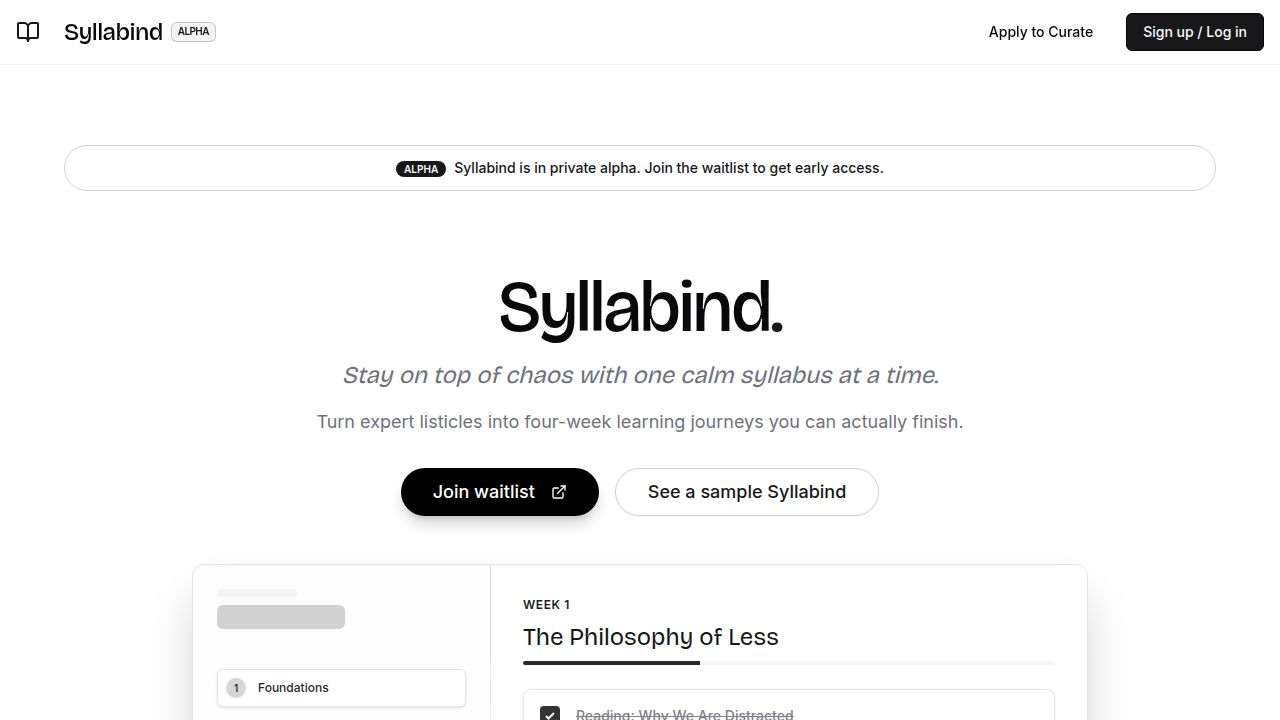
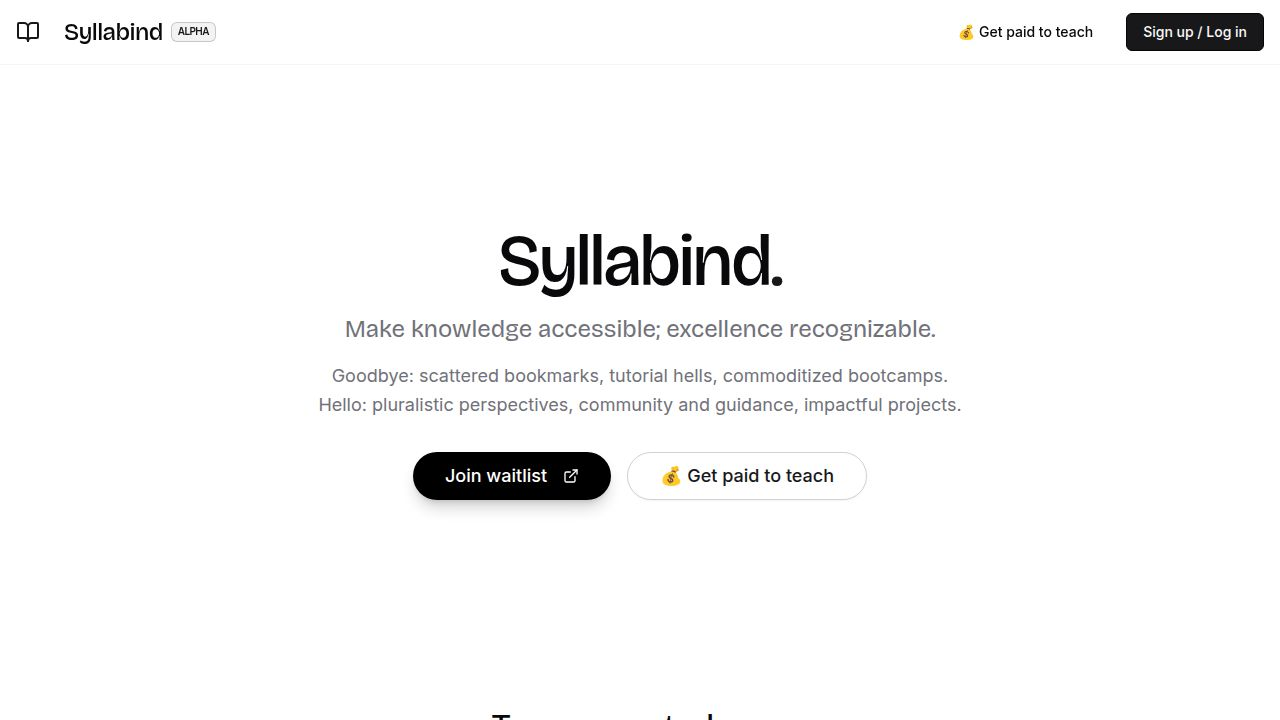
Add a dedicated health check endpoint and improve redirects
Introduce a `/__healthz` endpoint for robust health checks and refine HTTPS redirect logic to accommodate internal requests.

Replit-Commit-Author: Agent
Replit-Commit-Session-Id: bae7a2ca-1022-45a9-b2c4-4e8211290616
Replit-Commit-Checkpoint-Type: full_checkpoint
Replit-Commit-Event-Id: cce1f0e3-8d38-4049-8b34-a607cace7dd8
Replit-Commit-Screenshot-Url: https://storage.googleapis.com/screenshot-production-us-central1/9ce1fb3c-f89c-4b55-bd8c-1cc321dd2fcd/bae7a2ca-1022-45a9-b2c4-4e8211290616/Qnn6yW2
Replit-Helium-Checkpoint-Created: true

diff --git a/client/src/pages/AdminSettings.tsx b/client/src/pages/AdminSettings.tsx
@@ -17,12 +17,14 @@ export default function AdminSettings() {
   const [bugReportUrl, setBugReportUrl] = useState('');
   const [termsUrl, setTermsUrl] = useState('');
   const [privacyUrl, setPrivacyUrl] = useState('');
+  const [getPaidToTeachUrl, setGetPaidToTeachUrl] = useState('');
   const [loading, setLoading] = useState(true);
   const [saving, setSaving] = useState(false);
   const [waitlistSaving, setWaitlistSaving] = useState(false);
   const [bugReportSaving, setBugReportSaving] = useState(false);
   const [termsSaving, setTermsSaving] = useState(false);
   const [privacySaving, setPrivacySaving] = useState(false);
+  const [getPaidToTeachSaving, setGetPaidToTeachSaving] = useState(false);
 
   // Redirect non-admin users
   useEffect(() => {
@@ -39,13 +41,15 @@ export default function AdminSettings() {
       fetch('/api/site-settings/bug_report_url').then(r => r.json()),
       fetch('/api/site-settings/terms_of_service_url').then(r => r.json()),
       fetch('/api/site-settings/privacy_policy_url').then(r => r.json()),
+      fetch('/api/site-settings/get_paid_to_teach_url').then(r => r.json()),
     ])
-      .then(([slackData, waitlistData, bugReportData, termsData, privacyData]) => {
+      .then(([slackData, waitlistData, bugReportData, termsData, privacyData, getPaidToTeachData]) => {
         setSlackUrl(slackData.value || '');
         setWaitlistUrl(waitlistData.value || '');
         setBugReportUrl(bugReportData.value || '');
         setTermsUrl(termsData.value || '');
         setPrivacyUrl(privacyData.value || '');
+        setGetPaidToTeachUrl(getPaidToTeachData.value || '');
         setLoading(false);
       })
       .catch(() => setLoading(false));
@@ -141,6 +145,24 @@ export default function AdminSettings() {
     }
   };
 
+  const handleGetPaidToTeachSave = async () => {
+    setGetPaidToTeachSaving(true);
+    try {
+      const res = await fetch('/api/admin/settings', {
+        method: 'PUT',
+        headers: { 'Content-Type': 'application/json' },
+        credentials: 'include',
+        body: JSON.stringify({ key: 'get_paid_to_teach_url', value: getPaidToTeachUrl }),
+      });
+      if (!res.ok) throw new Error('Failed to save');
+      toast({ title: 'Settings saved', description: 'Get Paid to Teach URL has been updated.' });
+    } catch {
+      toast({ title: 'Error', description: 'Failed to save settings.', variant: 'destructive' });
+    } finally {
+      setGetPaidToTeachSaving(false);
+    }
+  };
+
   if (!user?.isAdmin) return null;
 
   return (
@@ -209,6 +231,36 @@ export default function AdminSettings() {
               />
               <Button onClick={handleWaitlistSave} disabled={waitlistSaving}>
                 {waitlistSaving && <Loader2 className="mr-2 h-4 w-4 animate-spin" />}
+                Save
+              </Button>
+            </>
+          )}
+        </CardContent>
+      </Card>
+
+      <Card>
+        <CardHeader>
+          <CardTitle>Get Paid to Teach URL</CardTitle>
+          <CardDescription>
+            URL for the "Get paid to teach" button on the Marketing page hero section.
+            Leave empty to scroll to the Apply to Curate section instead.
+          </CardDescription>
+        </CardHeader>
+        <CardContent className="space-y-4">
+          {loading ? (
+            <div className="flex items-center gap-2 text-muted-foreground">
+              <Loader2 className="h-4 w-4 animate-spin" />
+              Loading...
+            </div>
+          ) : (
+            <>
+              <Input
+                placeholder="https://example.com/teach"
+                value={getPaidToTeachUrl}
+                onChange={(e) => setGetPaidToTeachUrl(e.target.value)}
+              />
+              <Button onClick={handleGetPaidToTeachSave} disabled={getPaidToTeachSaving}>
+                {getPaidToTeachSaving && <Loader2 className="mr-2 h-4 w-4 animate-spin" />}
                 Save
               </Button>
             </>

diff --git a/client/src/components/Layout.tsx b/client/src/components/Layout.tsx
@@ -28,6 +28,7 @@ export function Layout({ children }: { children: React.ReactNode }) {
   const [bugReportUrl, setBugReportUrl] = useState<string | null>(null);
   const [termsUrl, setTermsUrl] = useState<string | null>(null);
   const [privacyUrl, setPrivacyUrl] = useState<string | null>(null);
+  const [getPaidToTeachUrl, setGetPaidToTeachUrl] = useState<string | null>(null);
 
   useEffect(() => {
     if (isAuthenticated) {
@@ -42,10 +43,12 @@ export function Layout({ children }: { children: React.ReactNode }) {
     Promise.all([
       fetch('/api/site-settings/terms_of_service_url').then(r => r.json()),
       fetch('/api/site-settings/privacy_policy_url').then(r => r.json()),
+      fetch('/api/site-settings/get_paid_to_teach_url').then(r => r.json()),
     ])
-      .then(([termsData, privacyData]) => {
+      .then(([termsData, privacyData, teachData]) => {
         setTermsUrl(termsData.value || null);
         setPrivacyUrl(privacyData.value || null);
+        setGetPaidToTeachUrl(teachData.value || null);
       })
       .catch(() => {});
   }, []);
@@ -235,20 +238,15 @@ export function Layout({ children }: { children: React.ReactNode }) {
               <div className="flex items-center gap-4">
                 {location !== '/login' && (
                   <>
-                    <Button 
-                      variant="ghost"
-                      onClick={() => {
-                        const element = document.getElementById('curate');
-                        if (element) {
-                          element.scrollIntoView({ behavior: 'smooth' });
-                        } else {
-                          window.location.href = '/welcome#curate';
-                        }
-                      }}
-                      className="hidden md:inline-flex"
-                    >
-                      Apply to Curate
-                    </Button>
+                    {getPaidToTeachUrl && (
+                      <Button
+                        variant="ghost"
+                        onClick={() => window.open(getPaidToTeachUrl, '_blank', 'noopener,noreferrer')}
+                        className="hidden md:inline-flex"
+                      >
+                        💰 Get paid to teach
+                      </Button>
+                    )}
                     <Link href="/login?mode=signup">
                       <Button>Sign up / Log in</Button>
                     </Link>

diff --git a/server/routes.ts b/server/routes.ts
@@ -275,11 +275,26 @@ export async function registerRoutes(
     if (req.query.catalog === 'true') {
       const visibility = req.query.visibility as string | undefined;
       const allowedVisibilities = ['public', 'unlisted', 'private'];
+      // Resolve creator filter — "@admin" expands to ADMIN_USERNAMES
+      let creator: string[] | undefined;
+      if (req.query.creator) {
+        const raw = (req.query.creator as string).split(',').filter(Boolean);
+        creator = raw.flatMap(c => {
+          if (c === '@admin') {
+            const admins = (process.env.ADMIN_USERNAMES || '').split(',').map(u => u.trim()).filter(Boolean);
+            return admins;
+          }
+          return [c];
+        });
+        if (creator.length === 0) creator = undefined;
+      }
+
       const result = await storage.searchCatalog({
         query: req.query.q as string | undefined,
         category: req.query.category ? (req.query.category as string).split(',').filter(Boolean) : undefined,
         level: req.query.level as string | undefined,
         visibility: visibility && allowedVisibilities.includes(visibility) ? visibility : 'public',
+        creator,
         sort: (req.query.sort as any) || 'newest',
         limit: Math.min(parseInt(req.query.limit as string) || 20, 50),
         offset: parseInt(req.query.offset as string) || 0,

diff --git a/server/storage.ts b/server/storage.ts
@@ -29,6 +29,7 @@ export interface CatalogSearchParams {
   category?: string | string[]; // category slug(s)
   level?: string; // audience level
   visibility?: string; // 'public' | 'unlisted' | 'private' (default: 'public')
+  creator?: string[]; // filter by creator username(s)
   sort?: 'newest' | 'popular' | 'relevance';
   limit?: number;
   offset?: number;
@@ -919,6 +920,7 @@ export class DatabaseStorage implements IStorage {
       category,
       level,
       visibility = 'public',
+      creator,
       sort = 'newest',
       limit: resultLimit = 20,
       offset: resultOffset = 0
@@ -937,6 +939,10 @@ export class DatabaseStorage implements IStorage {
 
     if (level) {
       conditions.push(sql`${syllabinds.audienceLevel} = ${level}`);
+    }
+
+    if (creator && creator.length > 0) {
+      conditions.push(sql`${syllabinds.creatorId} IN ${creator}`);
     }
 
     // Full-text search with ILIKE fallback for stop-word-only queries (e.g. "how to")

diff --git a/server/index.ts b/server/index.ts
@@ -12,10 +12,19 @@ const httpServer = createServer(app);
 
 const isProduction = process.env.NODE_ENV === "production";
 
+// Health check endpoint — must respond before any redirects for deployment healthchecks
+app.get("/__healthz", (_req, res) => {
+  res.status(200).send("ok");
+});
+
 // HTTPS redirect — in production, redirect HTTP requests to HTTPS
 // Replit's reverse proxy sets X-Forwarded-Proto to indicate the original protocol
 if (isProduction) {
   app.use((req, res, next) => {
+    // Skip redirect for internal health checks (no x-forwarded-proto means direct connection)
+    if (!req.headers["x-forwarded-proto"]) {
+      return next();
+    }
     if (req.headers["x-forwarded-proto"] !== "https") {
       return res.redirect(301, `https://${req.hostname}${req.originalUrl}`);
     }
